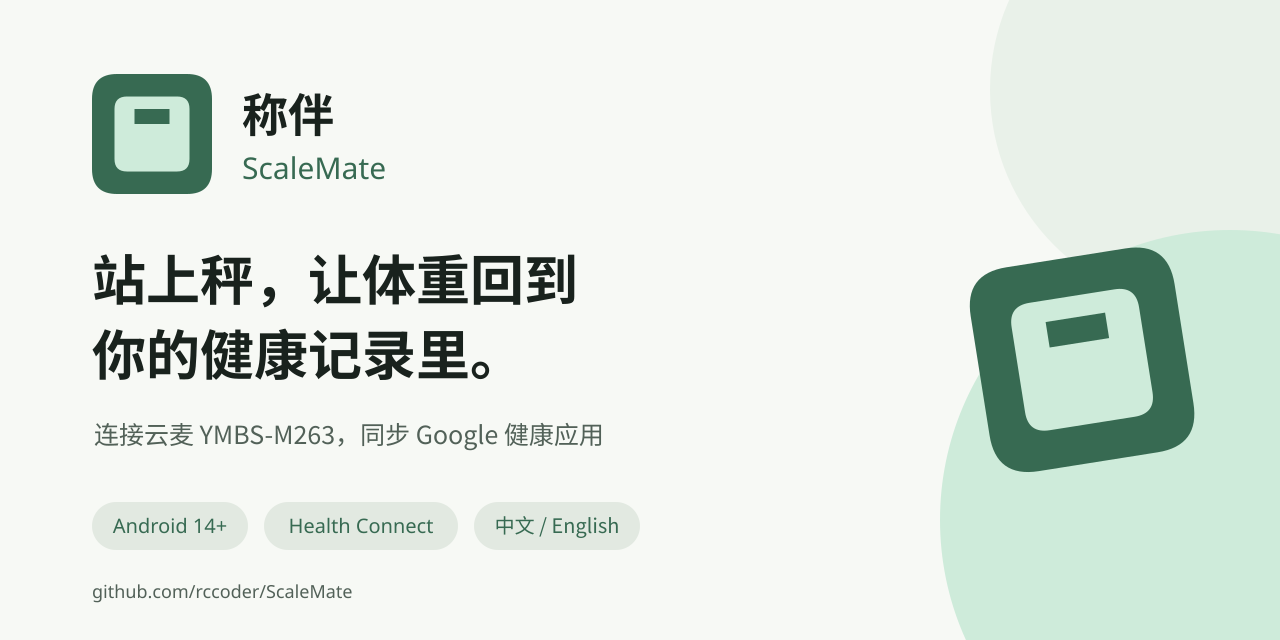
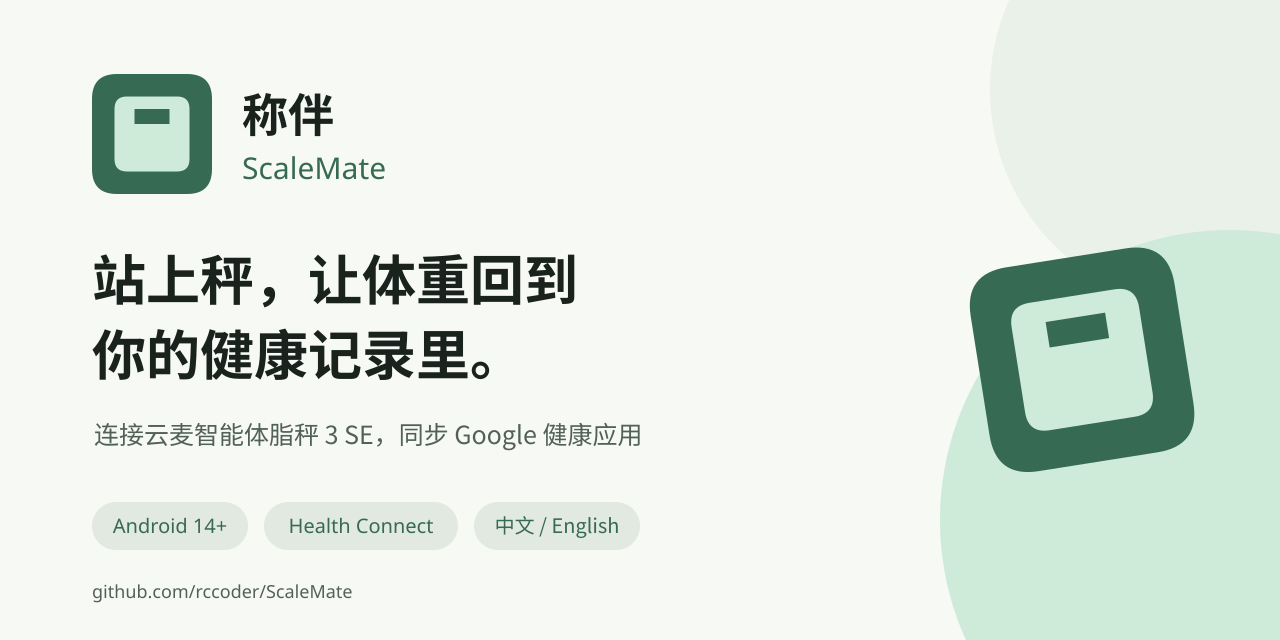
Use friendly scale product names with localized model catalog

Changed region(s): [[0.1562, 0.6562, 0.5, 0.7188]]

diff --git a/app/src/main/java/app/scalemate/ScaleMateApp.kt b/app/src/main/java/app/scalemate/ScaleMateApp.kt
@@ -23,6 +23,7 @@ import androidx.compose.ui.unit.dp
 import androidx.compose.ui.unit.sp
 import androidx.lifecycle.compose.collectAsStateWithLifecycle
 import app.scalemate.core.Phase
+import app.scalemate.core.ScaleCatalog
 import app.scalemate.data.*
 import java.text.NumberFormat
 import java.time.Instant
@@ -49,7 +50,8 @@ private val Dark=darkColorScheme(primary=Color(0xFFA2D2B5),primaryContainer=Colo
     var replacing by remember {mutableStateOf<BoundScale?>(null)}
     val context=LocalContext.current
     val locale=LocalConfiguration.current.locales[0]
-    val modelName=stringResource(R.string.model)
+    val model=ScaleCatalog.yunmai3Se
+    val modelName=stringResource(model.displayNameResource)
     val number=remember(locale) {NumberFormat.getNumberInstance(locale).apply {minimumFractionDigits=2;maximumFractionDigits=2}}
     val dates=remember(locale) {DateTimeFormatter.ofLocalizedDateTime(FormatStyle.SHORT).withLocale(locale).withZone(ZoneId.systemDefault())}
     val actualPage=if(!state.loaded)"loading" else if(!state.onboarded && !welcomeDone)"welcome" else page
@@ -70,7 +72,7 @@ private val Dark=darkColorScheme(primary=Color(0xFFA2D2B5),primaryContainer=Colo
                         Spacer(Modifier.height(32.dp));Text(stringResource(R.string.app_name),fontSize=32.sp,fontWeight=FontWeight.Bold)
                         Surface(shape=RoundedCornerShape(40.dp),color=c.primaryContainer,modifier=Modifier.fillMaxWidth().height(150.dp)){Box(contentAlignment=Alignment.Center){Icon(Icons.Default.Favorite,null,Modifier.size(64.dp),tint=c.primary)}}
                         Text(stringResource(R.string.tagline),style=MaterialTheme.typography.headlineLarge,fontWeight=FontWeight.SemiBold)
-                        Text(stringResource(R.string.intro),color=c.onSurfaceVariant)
+                        Text(stringResource(R.string.intro,modelName),color=c.onSurfaceVariant)
                         Action(R.string.get_started){welcomeDone=true;page="setup"}
                     }
                     "setup"->{
@@ -84,24 +86,25 @@ private val Dark=darkColorScheme(primary=Color(0xFFA2D2B5),primaryContainer=Colo
                         TextButton(onClick={vm.onboardingDone();navigate("home")}){Text(stringResource(R.string.continue_local))}
                     }
                     "devices"->{
-                        Text(stringResource(R.string.scan_hint),color=c.onSurfaceVariant)
+                        Text(stringResource(R.string.scan_hint,modelName),color=c.onSurfaceVariant)
                         state.scales.forEach{s->
+                            val displayName=scaleDisplayName(s.name)
                             Card(modifier=Modifier.fillMaxWidth(),shape=RoundedCornerShape(24.dp)) {Column(Modifier.padding(18.dp),verticalArrangement=Arrangement.spacedBy(8.dp)){
-                                Text(s.name,style=MaterialTheme.typography.titleMedium)
-                                Text(stringResource(R.string.model)+" · "+s.address.takeLast(5),style=MaterialTheme.typography.bodySmall)
+                                Text(scaleDisplayName(s.name),style=MaterialTheme.typography.titleMedium)
+                                Text(stringResource(R.string.device_model_and_address,model.internalModel,s.address.takeLast(5)),style=MaterialTheme.typography.bodySmall)
                                 Text(stringResource(if(s.verified)R.string.verified else R.string.unverified),color=c.primary)
-                                Row {TextButton(onClick={vm.select(s.id);navigate("home")}){Text(stringResource(R.string.select_scale))};TextButton(onClick={rename=s;name=s.name}){Text(stringResource(R.string.rename))}}
+                                Row {TextButton(onClick={vm.select(s.id);navigate("home")}){Text(stringResource(R.string.select_scale))};TextButton(onClick={rename=s;name=displayName}){Text(stringResource(R.string.rename))}}
                                 Row {TextButton(onClick={replacing=s;bluetooth{vm.discover()}}){Text(stringResource(R.string.rebind))};TextButton(onClick={vm.unbind(s.id)}){Text(stringResource(R.string.remove))}}
                             }}
                         }
                         if(state.discovering){LinearProgressIndicator(Modifier.fillMaxWidth());Text(stringResource(R.string.scanning));TextButton(onClick={vm.stop()}){Text(stringResource(R.string.stop))}}
                         else Action(R.string.scan){bluetooth{vm.discover()}}
-                        state.candidates.forEach{(address,rssi)->OutlinedCard(onClick={candidate=address},modifier=Modifier.fillMaxWidth()){Column(Modifier.padding(18.dp)){Text(stringResource(R.string.model));Text(stringResource(R.string.signal,rssi,address.takeLast(5)),style=MaterialTheme.typography.bodySmall)}}}
+                        state.candidates.forEach{(address,rssi)->OutlinedCard(onClick={candidate=address},modifier=Modifier.fillMaxWidth()){Column(Modifier.padding(18.dp)){Text(modelName);Text(stringResource(R.string.signal,rssi,address.takeLast(5)),style=MaterialTheme.typography.bodySmall)}}}
                     }
                     "home"->{
                         if(scale==null) {Text(stringResource(R.string.no_scale),style=MaterialTheme.typography.headlineMedium);Action(R.string.add_scale){navigate("devices")}}
                         else {
-                            OutlinedCard(onClick={choose=true},modifier=Modifier.fillMaxWidth(),shape=RoundedCornerShape(24.dp)){Column(Modifier.padding(18.dp)){Text(scale.name,style=MaterialTheme.typography.titleMedium);Text(stringResource(R.string.model),color=c.onSurfaceVariant,style=MaterialTheme.typography.bodySmall)}}
+                            OutlinedCard(onClick={choose=true},modifier=Modifier.fillMaxWidth(),shape=RoundedCornerShape(24.dp)){Column(Modifier.padding(18.dp)){Text(scaleDisplayName(scale.name),style=MaterialTheme.typography.titleMedium);Text(if(scaleDisplayName(scale.name)==modelName)stringResource(if(scale.verified)R.string.verified else R.string.unverified) else modelName,color=c.onSurfaceVariant,style=MaterialTheme.typography.bodySmall)}}
                             val session=state.session
                             val phase=session.phase
                             Surface(color=if(phase in listOf(Phase.COUNTDOWN,Phase.STABLE))c.primaryContainer else c.surfaceVariant.copy(alpha=.45f),shape=RoundedCornerShape(32.dp),modifier=Modifier.fillMaxWidth()){
@@ -150,13 +153,13 @@ private val Dark=darkColorScheme(primary=Color(0xFFA2D2B5),primaryContainer=Colo
                 Spacer(Modifier.height(24.dp))
             }
         }
-        if(candidate!=null)AlertDialog(onDismissRequest={candidate=null},title={Text(stringResource(R.string.confirm_scale))},text={Text(stringResource(R.string.confirm_model))},confirmButton={TextButton(onClick={vm.bind(candidate!!,replacing?.name ?: modelName,replacing?.id);candidate=null;replacing=null;navigate("home")}){Text(stringResource(R.string.bind))}},dismissButton={TextButton(onClick={candidate=null}){Text(stringResource(R.string.cancel))}})
+        if(candidate!=null)AlertDialog(onDismissRequest={candidate=null},title={Text(stringResource(R.string.confirm_scale))},text={Text(stringResource(R.string.confirm_model,modelName,model.internalModel))},confirmButton={TextButton(onClick={vm.bind(candidate!!,replacing?.name ?: model.id,replacing?.id);candidate=null;replacing=null;navigate("home")}){Text(stringResource(R.string.bind))}},dismissButton={TextButton(onClick={candidate=null}){Text(stringResource(R.string.cancel))}})
         if(rename!=null)AlertDialog(onDismissRequest={rename=null},title={Text(stringResource(R.string.rename))},text={OutlinedTextField(value=name,onValueChange={name=it.take(60)},label={Text(stringResource(R.string.name))},singleLine=true)},confirmButton={TextButton(enabled=name.isNotBlank(),onClick={vm.rename(rename!!.id,name);rename=null}){Text(stringResource(R.string.save))}},dismissButton={TextButton(onClick={rename=null}){Text(stringResource(R.string.cancel))}})
-        if(choose)AlertDialog(onDismissRequest={choose=false},title={Text(stringResource(R.string.select_scale))},text={Column{state.scales.forEach{s->TextButton(onClick={vm.select(s.id);choose=false}){Text(s.name)}};TextButton(onClick={choose=false;navigate("devices")}){Text(stringResource(R.string.add_scale))}}},confirmButton={TextButton(onClick={choose=false}){Text(stringResource(R.string.done))}})
+        if(choose)AlertDialog(onDismissRequest={choose=false},title={Text(stringResource(R.string.select_scale))},text={Column{state.scales.forEach{s->TextButton(onClick={vm.select(s.id);choose=false}){Text(scaleDisplayName(s.name))}};TextButton(onClick={choose=false;navigate("devices")}){Text(stringResource(R.string.add_scale))}}},confirmButton={TextButton(onClick={choose=false}){Text(stringResource(R.string.done))}})
         if(autoDialog)AlertDialog(onDismissRequest={autoDialog=false},title={Text(stringResource(R.string.auto_confirm))},text={Text(stringResource(R.string.auto_explain))},confirmButton={TextButton(onClick={vm.automatic(true);autoDialog=false}){Text(stringResource(R.string.enable))}},dismissButton={TextButton(onClick={autoDialog=false}){Text(stringResource(R.string.cancel))}})
         if(languageDialog)AlertDialog(onDismissRequest={languageDialog=false},title={Text(stringResource(R.string.language))},text={Column{listOf("" to R.string.language_system,"zh" to R.string.language_zh,"en" to R.string.language_en).forEach{(tag,label)->TextButton(onClick={languageDialog=false;language(tag)}){Text(stringResource(label))}}}},confirmButton={TextButton(onClick={languageDialog=false}){Text(stringResource(R.string.cancel))}})
         selected?.let{snapshot->val m=state.records.find{it.id==snapshot.id} ?: snapshot
-            AlertDialog(onDismissRequest={selected=null},title={Text(stringResource(R.string.detail))},text={Column(verticalArrangement=Arrangement.spacedBy(12.dp)){Text(number.format(m.kg)+" "+stringResource(R.string.unit_kg),style=MaterialTheme.typography.headlineLarge);Text(dates.format(Instant.ofEpochMilli(m.time)));Text(stringResource(R.string.source,m.source));Text(stringResource(statusResource(m.status)));if(m.status in listOf("pending","failed","permission"))TextButton(onClick={if(m.status=="permission")authorize() else vm.retry(m.id)}){Text(stringResource(if(m.status=="permission")R.string.authorize else R.string.retry))};TextButton(onClick={selected=null;deleting=m}){Text(stringResource(R.string.delete_title))}}},confirmButton={TextButton(onClick={selected=null}){Text(stringResource(R.string.done))}})
+            AlertDialog(onDismissRequest={selected=null},title={Text(stringResource(R.string.detail))},text={Column(verticalArrangement=Arrangement.spacedBy(12.dp)){Text(number.format(m.kg)+" "+stringResource(R.string.unit_kg),style=MaterialTheme.typography.headlineLarge);Text(dates.format(Instant.ofEpochMilli(m.time)));Text(stringResource(R.string.source,scaleDisplayName(m.source)));Text(stringResource(statusResource(m.status)));if(m.status in listOf("pending","failed","permission"))TextButton(onClick={if(m.status=="permission")authorize() else vm.retry(m.id)}){Text(stringResource(if(m.status=="permission")R.string.authorize else R.string.retry))};TextButton(onClick={selected=null;deleting=m}){Text(stringResource(R.string.delete_title))}}},confirmButton={TextButton(onClick={selected=null}){Text(stringResource(R.string.done))}})
         }
         deleting?.let{m->AlertDialog(onDismissRequest={deleting=null},title={Text(stringResource(R.string.delete_title))},text={Column{Text(stringResource(R.string.delete_note));TextButton(onClick={vm.delete(m.id,false);deleting=null}){Text(stringResource(R.string.delete_local))};TextButton(onClick={vm.delete(m.id,true);deleting=null}){Text(stringResource(R.string.delete_both))}}},confirmButton={TextButton(onClick={deleting=null}){Text(stringResource(R.string.cancel))}})}
     }
@@ -165,6 +168,11 @@ private val Dark=darkColorScheme(primary=Color(0xFFA2D2B5),primaryContainer=Colo
 @Composable private fun Action(label: Int, action: ()->Unit) {Button(onClick=action,modifier=Modifier.fillMaxWidth().heightIn(min=54.dp)){Text(stringResource(label))}}
 @Composable private fun Pill(label: Int) {Surface(shape=CircleShape,color=MaterialTheme.colorScheme.secondaryContainer){Text(stringResource(label),Modifier.padding(horizontal=14.dp,vertical=8.dp),style=MaterialTheme.typography.labelMedium)}}
 @Composable private fun Preference(label: Int, value: Boolean, action: (Boolean)->Unit) {Row(Modifier.fillMaxWidth(),verticalAlignment=Alignment.CenterVertically){Text(stringResource(label),Modifier.weight(1f));Switch(value,action)}}
-@Composable private fun RecordCard(m: Measurement, kg: String, date: String, action: ()->Unit) {Card(onClick=action,modifier=Modifier.fillMaxWidth(),shape=RoundedCornerShape(24.dp)){Column(Modifier.padding(20.dp),verticalArrangement=Arrangement.spacedBy(6.dp)){Text(date,style=MaterialTheme.typography.labelMedium);Text(kg+" "+stringResource(R.string.unit_kg),fontSize=28.sp);Text(stringResource(statusResource(m.status)),color=MaterialTheme.colorScheme.primary,style=MaterialTheme.typography.bodySmall);Text(m.source,style=MaterialTheme.typography.bodySmall)}}}
+@Composable private fun RecordCard(m: Measurement, kg: String, date: String, action: ()->Unit) {Card(onClick=action,modifier=Modifier.fillMaxWidth(),shape=RoundedCornerShape(24.dp)){Column(Modifier.padding(20.dp),verticalArrangement=Arrangement.spacedBy(6.dp)){Text(date,style=MaterialTheme.typography.labelMedium);Text(kg+" "+stringResource(R.string.unit_kg),fontSize=28.sp);Text(stringResource(statusResource(m.status)),color=MaterialTheme.colorScheme.primary,style=MaterialTheme.typography.bodySmall);Text(scaleDisplayName(m.source),style=MaterialTheme.typography.bodySmall)}}}
 private fun phaseResource(p: Phase)=when(p){Phase.IDLE->R.string.phase_idle;Phase.WAITING->R.string.phase_waiting;Phase.MEASURING->R.string.phase_measuring;Phase.STABLE->R.string.phase_stable;Phase.COUNTDOWN->R.string.phase_countdown;Phase.SAVING->R.string.phase_saving;Phase.SAVE_FAILED->R.string.storage_error;Phase.CONFIRMED->R.string.phase_confirmed;Phase.CANCELLED->R.string.phase_cancelled;Phase.EXPIRED->R.string.phase_expired}
 private fun statusResource(s: String)=when(s){"synced"->R.string.status_synced;"writing"->R.string.status_writing;"permission"->R.string.status_permission;"failed"->R.string.status_failed;"deleting"->R.string.status_deleting;"delete_failed"->R.string.status_delete_failed;else->R.string.status_pending}
+
+@Composable private fun scaleDisplayName(storedName: String): String {
+    val model = ScaleCatalog.yunmai3Se
+    return model.displayName(storedName, stringResource(model.displayNameResource))
+}

diff --git a/app/src/main/java/app/scalemate/core/ScaleCatalog.kt b/app/src/main/java/app/scalemate/core/ScaleCatalog.kt
@@ -1,0 +1,32 @@
+package app.scalemate.core
+
+import androidx.annotation.StringRes
+import app.scalemate.R
+
+/** Product names are localized resources; protocol identity stays independent of display names. */
+data class ScaleModel(
+    val id: String,
+    val manufacturer: String,
+    val internalModel: String,
+    val adapterId: String,
+    @param:StringRes val displayNameResource: Int,
+    val legacyDefaultNames: Set<String>,
+) {
+    /** Resolve old defaults without changing stored bindings, history, or user-defined names. */
+    fun displayName(storedName: String, localizedName: String): String =
+        if (storedName.isBlank() || storedName == id || storedName in legacyDefaultNames) localizedName else storedName
+}
+
+object ScaleCatalog {
+    val yunmai3Se = ScaleModel(
+        id = "yunmai-smart-body-fat-scale-3-se",
+        manufacturer = "YUNMAI",
+        internalModel = "YMBS-M263",
+        adapterId = YunmaiM263.ADAPTER,
+        displayNameResource = R.string.model_yunmai_smart_body_fat_scale_3_se,
+        legacyDefaultNames = setOf("云麦 YMBS-M263", "YUNMAI YMBS-M263", "YUNMAI M263"),
+    )
+    val supported: List<ScaleModel> = listOf(yunmai3Se)
+    fun forAdapter(adapterId: String): ScaleModel? = supported.find { it.adapterId == adapterId }
+    fun forInternalModel(internalModel: String): ScaleModel? = supported.find { it.internalModel == internalModel }
+}

diff --git a/app/src/main/java/app/scalemate/platform/HealthOutput.kt b/app/src/main/java/app/scalemate/platform/HealthOutput.kt
@@ -7,6 +7,7 @@ import android.health.connect.datatypes.*
 import android.health.connect.datatypes.units.Mass
 import android.os.OutcomeReceiver
 import app.scalemate.data.Measurement
+import app.scalemate.core.ScaleCatalog
 import java.time.Instant
 import java.time.ZoneOffset
 import kotlinx.coroutines.suspendCancellableCoroutine
@@ -22,7 +23,7 @@ class HealthOutput(private val context: Context) {
         try {
             val metadata = Metadata.Builder().setClientRecordId(m.id).setClientRecordVersion(1)
                 .setRecordingMethod(Metadata.RECORDING_METHOD_AUTOMATICALLY_RECORDED)
-                .setDevice(Device.Builder().setManufacturer("YUNMAI").setModel("YMBS-M263").setType(Device.DEVICE_TYPE_SCALE).build()).build()
+                .setDevice(Device.Builder().setManufacturer(ScaleCatalog.yunmai3Se.manufacturer).setModel(ScaleCatalog.yunmai3Se.internalModel).setType(Device.DEVICE_TYPE_SCALE).build()).build()
             val record = WeightRecord.Builder(metadata, Instant.ofEpochMilli(m.time), Mass.fromGrams(m.kg * 1000)).setZoneOffset(ZoneOffset.ofTotalSeconds(m.offset)).build()
             manager().insertRecords(listOf(record),context.mainExecutor,object: OutcomeReceiver<InsertRecordsResponse,HealthConnectException> {
                 override fun onResult(result: InsertRecordsResponse) { if(continuation.isActive) continuation.resume(result.records.first().metadata.id) }

diff --git a/app/src/test/java/app/scalemate/core/ScaleCatalogTest.kt b/app/src/test/java/app/scalemate/core/ScaleCatalogTest.kt
@@ -1,0 +1,27 @@
+package app.scalemate.core
+
+import org.junit.Assert.*
+import org.junit.Test
+
+class ScaleCatalogTest {
+    private val model = ScaleCatalog.yunmai3Se
+    @Test fun oldDefaultNamesFollowCurrentLocale() {
+        for (oldName in model.legacyDefaultNames) {
+            assertEquals("云麦智能体脂秤 3 SE", model.displayName(oldName, "云麦智能体脂秤 3 SE"))
+            assertEquals("YUNMAI Smart Body Fat Scale 3 SE", model.displayName(oldName, "YUNMAI Smart Body Fat Scale 3 SE"))
+        }
+    }
+    @Test fun customDeviceAndRecordNamesArePreserved() {
+        for (name in listOf("卧室的秤", "Bathroom scale", "My YMBS-M263")) {
+            assertEquals(name, model.displayName(name, "云麦智能体脂秤 3 SE"))
+        }
+    }
+    @Test fun defaultIdentityIsLocalizedAndUnsupportedModelsStayUnsupported() {
+        assertEquals("中文名", model.displayName(model.id, "中文名"))
+        assertEquals("English name", model.displayName("", "English name"))
+        assertSame(model, ScaleCatalog.forAdapter(YunmaiM263.ADAPTER))
+        assertSame(model, ScaleCatalog.forInternalModel("YMBS-M263"))
+        assertNull(ScaleCatalog.forInternalModel("YMBS-M268"))
+        assertNull(ScaleCatalog.forAdapter("unknown"))
+    }
+}

diff --git a/app/src/main/java/app/scalemate/ScaleViewModel.kt b/app/src/main/java/app/scalemate/ScaleViewModel.kt
@@ -57,7 +57,7 @@ class ScaleViewModel(application: Application): AndroidViewModel(application) {
             try {
                 withContext(Dispatchers.IO) {
                     if(replacing!=null) store.rebind(replacing,address)
-                    else store.bind(BoundScale(UUID.randomUUID().toString(),name.take(60).ifBlank { "YUNMAI M263" },address,false))
+                    else store.bind(BoundScale(UUID.randomUUID().toString(),name.take(60).ifBlank { ScaleCatalog.yunmai3Se.id },address,false))
                 }
                 reload()
                 mutable.value.scales.find { it.address==address }?.let { select(it.id) }

diff --git a/README.md b/README.md
@@ -8,7 +8,7 @@
 
 喜欢用 Google Fit，却发现家里的体重秤无法同步？称伴为它们搭一座桥。连接体重秤，接收每次测量，把确认后的体重送到你常用的健康应用。
 
-**目前支持云麦 YMBS-M263 · Android 14+ · 中文 / English**
+**目前支持云麦智能体脂秤 3 SE · Android 14+ · 中文 / English**
 
 [下载体验版](https://github.com/rccoder/ScaleMate/releases/latest/download/ScaleMate.apk)
 
@@ -29,7 +29,7 @@
 
 ## 从第一次连接，到每天称重
 
-首次引导带你完成健康授权与设备添加。以下截图来自真实 Android App，称重和记录页面展示实际测量结果。
+首次引导带你完成健康授权与设备添加。以下截图来自 0.1.0 版本的真实 Android App，称重和记录页面展示实际测量结果；截图中的旧名称“YMBS-M263”对应云麦智能体脂秤 3 SE。
 
 <table>
   <tr>
@@ -48,7 +48,7 @@
     <th>管理已绑定的秤</th>
   </tr>
   <tr>
-    <td><img src="docs/screenshots/04-scan.png" width="250" alt="扫描发现云麦 YMBS-M263"></td>
+    <td><img src="docs/screenshots/04-scan.png" width="250" alt="扫描发现云麦智能体脂秤 3 SE"></td>
     <td><img src="docs/screenshots/04-confirm-device.png" width="250" alt="核对型号并确认添加体重秤"></td>
     <td><img src="docs/screenshots/04-devices.png" width="250" alt="体重秤管理与读数验证状态"></td>
   </tr>
@@ -74,9 +74,15 @@
 
 ## 从一台秤开始
 
-当前版本专注于 **云麦 YUNMAI YMBS-M263 的体重同步**，真实称重与 Google 健康应用同步流程已完成实测。未来希望连接更多体重秤与健康应用。
+当前版本专注于 **云麦智能体脂秤 3 SE 的体重同步**，真实称重与 Google 健康应用同步流程已完成实测。未来希望连接更多体重秤与健康应用。
 
-现在提供的是 **0.1.0 体验版**，由 GitHub CI 构建并使用固定发布密钥签名，需要 Android 14 或更新版本。称重期间请保持 App 在前台，锁屏或离开页面会取消待确认的读数。Google 健康应用需获得体重读取权限，显示可能稍有延迟。
+| 产品名称 | 英文界面名称 | 底部／内部型号 |
+| --- | --- | --- |
+| 云麦智能体脂秤 3 SE | YUNMAI Smart Body Fat Scale 3 SE | `YMBS-M263` |
+
+添加秤时显示好记的产品名称，确认页面同时提供内部型号，方便核对。你仍然可以为每台秤取自己的名字。更多型号会逐步加入这张对照表。
+
+现在提供的是 **体验版**，由 GitHub CI 构建并使用固定发布密钥签名，需要 Android 14 或更新版本。称重期间请保持 App 在前台，锁屏或离开页面会取消待确认的读数。Google 健康应用需获得体重读取权限，显示可能稍有延迟。
 
 [下载称伴体验版](https://github.com/rccoder/ScaleMate/releases/latest/download/ScaleMate.apk) · [版本与更新记录](https://github.com/rccoder/ScaleMate/releases)
 

diff --git a/docs/实现与测试.md b/docs/实现与测试.md
@@ -4,7 +4,7 @@
 
 中文名称“称伴”，英文 ScaleMate，实际应用包名 `app.scalemate`。原生 Kotlin + Compose Material 3，Android 14 及以上。
 
-通过 BLE 广播读取云麦 YMBS-M263，校验型号特征、地址、校验码与体重范围。绑定保留设备地址与协议身份，支持多个设备、重命名、重新绑定和解绑；解绑保留历史记录。
+通过 BLE 广播读取云麦智能体脂秤 3 SE（内部型号 YMBS-M263），校验型号特征、地址、校验码与体重范围。绑定保留设备地址与协议身份，支持多个设备、重命名、重新绑定和解绑；解绑保留历史记录。
 
 实时体重连续至少 3 秒、至少 3 个不同时间样本、间隔不超过 2 秒、变化不超过 0.10 kg 才成为候选体重。默认手动确认；验证设备后可开启 5 秒倒计时。漂移会重新判断，取消、离开前台、关闭蓝牙和数据过期均停止相应流程。重复广播不重复创建记录。
 
@@ -35,3 +35,15 @@
 真实秤单次称重与同步链路已通过。5 秒自动确认与倒计时取消已通过上述回归；持续站立去重已通过；多设备切换、撤销授权后的恢复与健康记录删除，仍需进一步实机验证；已有单元测试不能代替这些完整交互验证。
 
 测试包 ScaleMate Tests（`app.scalemate.test`）仅供开发验证，可在测试完成后卸载。上述手机测试使用 debug 构建。后续已配置固定发布签名与 GitHub CI，并发布 `v0.1.0` release APK；本次未替换手机上的 debug App，发布核验见 [发布指南](发布指南.md)。
+
+## 产品名称与协议型号
+
+型号映射集中定义在 `app/src/main/java/app/scalemate/core/ScaleCatalog.kt`，显示名称使用中英文资源，蓝牙解析和 Health Connect 的设备型号保留技术标识。
+
+| 产品标识 | 中文显示名称 | 英文显示名称 | 内部型号 | 协议适配器 |
+| --- | --- | --- | --- | --- |
+| `yunmai-smart-body-fat-scale-3-se` | 云麦智能体脂秤 3 SE | YUNMAI Smart Body Fat Scale 3 SE | `YMBS-M263` | `yunmai-m263-v1` |
+
+新绑定默认保存产品标识，显示时按当前语言解析；旧绑定和历史记录中的默认名称也通过映射显示，自定义名称原样保留。无需改写已有设备地址、数据库或健康记录。未来支持新型号时，在型号表中补充产品名称和协议关联。当前仅支持这一个型号，未引入其他型号的协议解析。
+
+兼容性单元测试覆盖旧默认名称、中英文切换、自定义名称保留和型号／协议查询。
